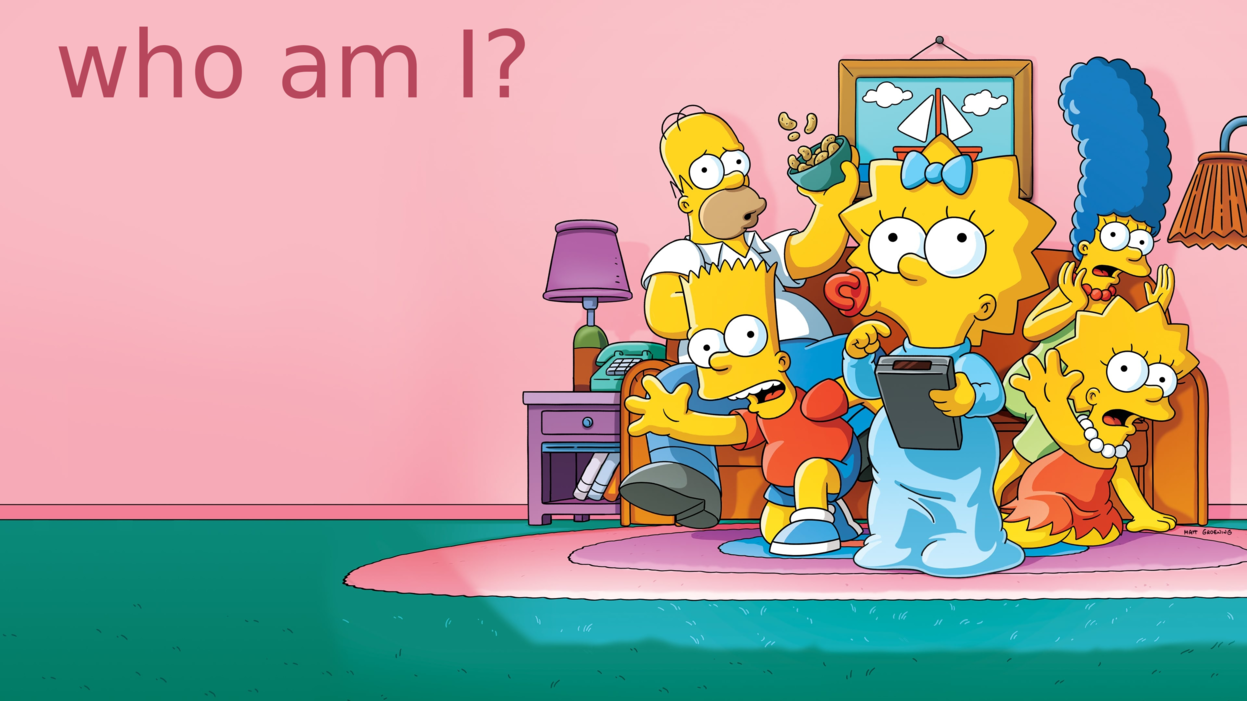
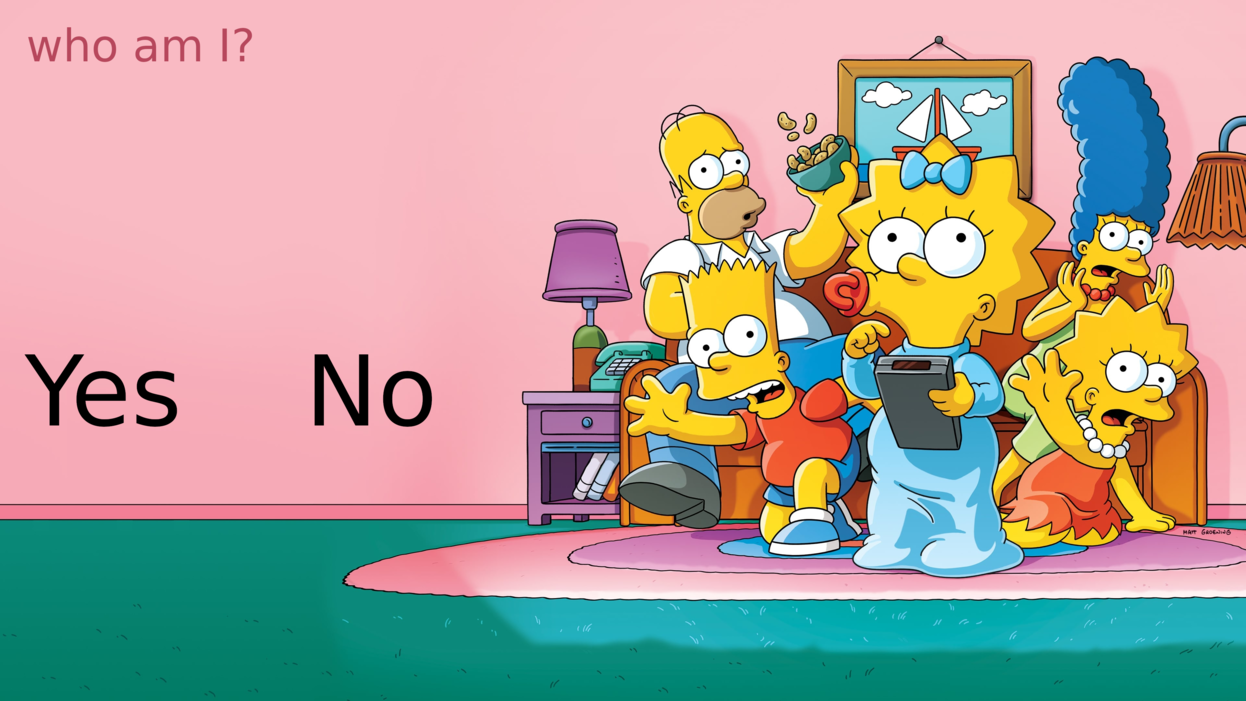
character questions

diff --git a/src/the_character.cpp b/src/the_character.cpp
@@ -25,5 +25,81 @@ void character_event(sf::RenderWindow *w, Main *m)
 
 void character_quiz(sf::RenderWindow *w, Main *m)
 {
-    
+    if(m->simpson == 1)
+        homero_quiz(w, m);
+    else if(m->simpson == 2)
+        marge_quiz(w, m);
+    else if(m->simpson == 3)
+        brat_quiz(w, m);
+    else if(m->simpson == 4)
+        lisa_quiz(w, m);
+    else if(m->simpson == 5)
+        magie_quiz(w, m);
+}
+/*
+void homero_quiz(sf::RenderWindow *w, Main *m)
+{    
+    float x = sf::Mouse::getPosition(*w).x;
+    float y = sf::Mouse::getPosition(*w).y;
+    if(m->event.type == sf::Event::MouseButtonPressed){
+        if(x >  && 
+        x <  &&
+        y >  &&
+        y < )
+  }
+}
+
+
+void marge_quiz(sf::RenderWindow *w, Main *m)
+{    
+    float x = sf::Mouse::getPosition(*w).x;
+    float y = sf::Mouse::getPosition(*w).y;
+    if(m->event.type == sf::Event::MouseButtonPressed){
+        if(x >  && 
+        x <  &&
+        y >  &&
+        y < )
+    }
+}
+
+void brat_quiz(sf::RenderWindow *w, Main *m)
+{    
+    float x = sf::Mouse::getPosition(*w).x;
+    float y = sf::Mouse::getPosition(*w).y;
+    if(m->event.type == sf::Event::MouseButtonPressed){
+        if(x >  && 
+        x <  &&
+        y >  &&
+        y < )
+    }
+}
+
+void lisa_quiz(sf::RenderWindow *w, Main *m)
+{    
+    float x = sf::Mouse::getPosition(*w).x;
+    float y = sf::Mouse::getPosition(*w).y;
+    if(m->event.type == sf::Event::MouseButtonPressed){
+        if(x >  && 
+        x <  &&
+        y >  &&
+        y < )
+    }
+}
+*/
+void magie_quiz(sf::RenderWindow *w, Main *m)
+{    
+    float x = sf::Mouse::getPosition(*w).x;
+    float y = sf::Mouse::getPosition(*w).y;
+    if(m->event.type == sf::Event::MouseButtonPressed){
+        if(x > 20 && 
+        x < 182 &&
+        y > 345 &&
+        y < 435) 
+        m->answer = 1;
+        else if(x > 310 &&
+        x < 440 && 
+        y > 350 &&
+        y < 430)
+        m->answer = 2;
+    }
 }

diff --git a/src/main.cpp b/src/main.cpp
@@ -19,7 +19,7 @@ int main(int argc, char **argv)
             start_game(&window, &m);
         }
         else if (m.state == 1){
-           the_character(&window, &m);
+         //  the_character(&window, &m);
         }
         else if (m.state == 2){
             //quiz1();

diff --git a/include/my.hpp b/include/my.hpp
@@ -13,7 +13,9 @@ class Main
     public:
         short state = 0;
         short character[4];
-
+        int simpson = 0;
+        int score = 0;
+        short answer = 0; // 1 = yes and 2 = no
         sf::Event event;
 
         sf::Texture start_game_bg_t;
